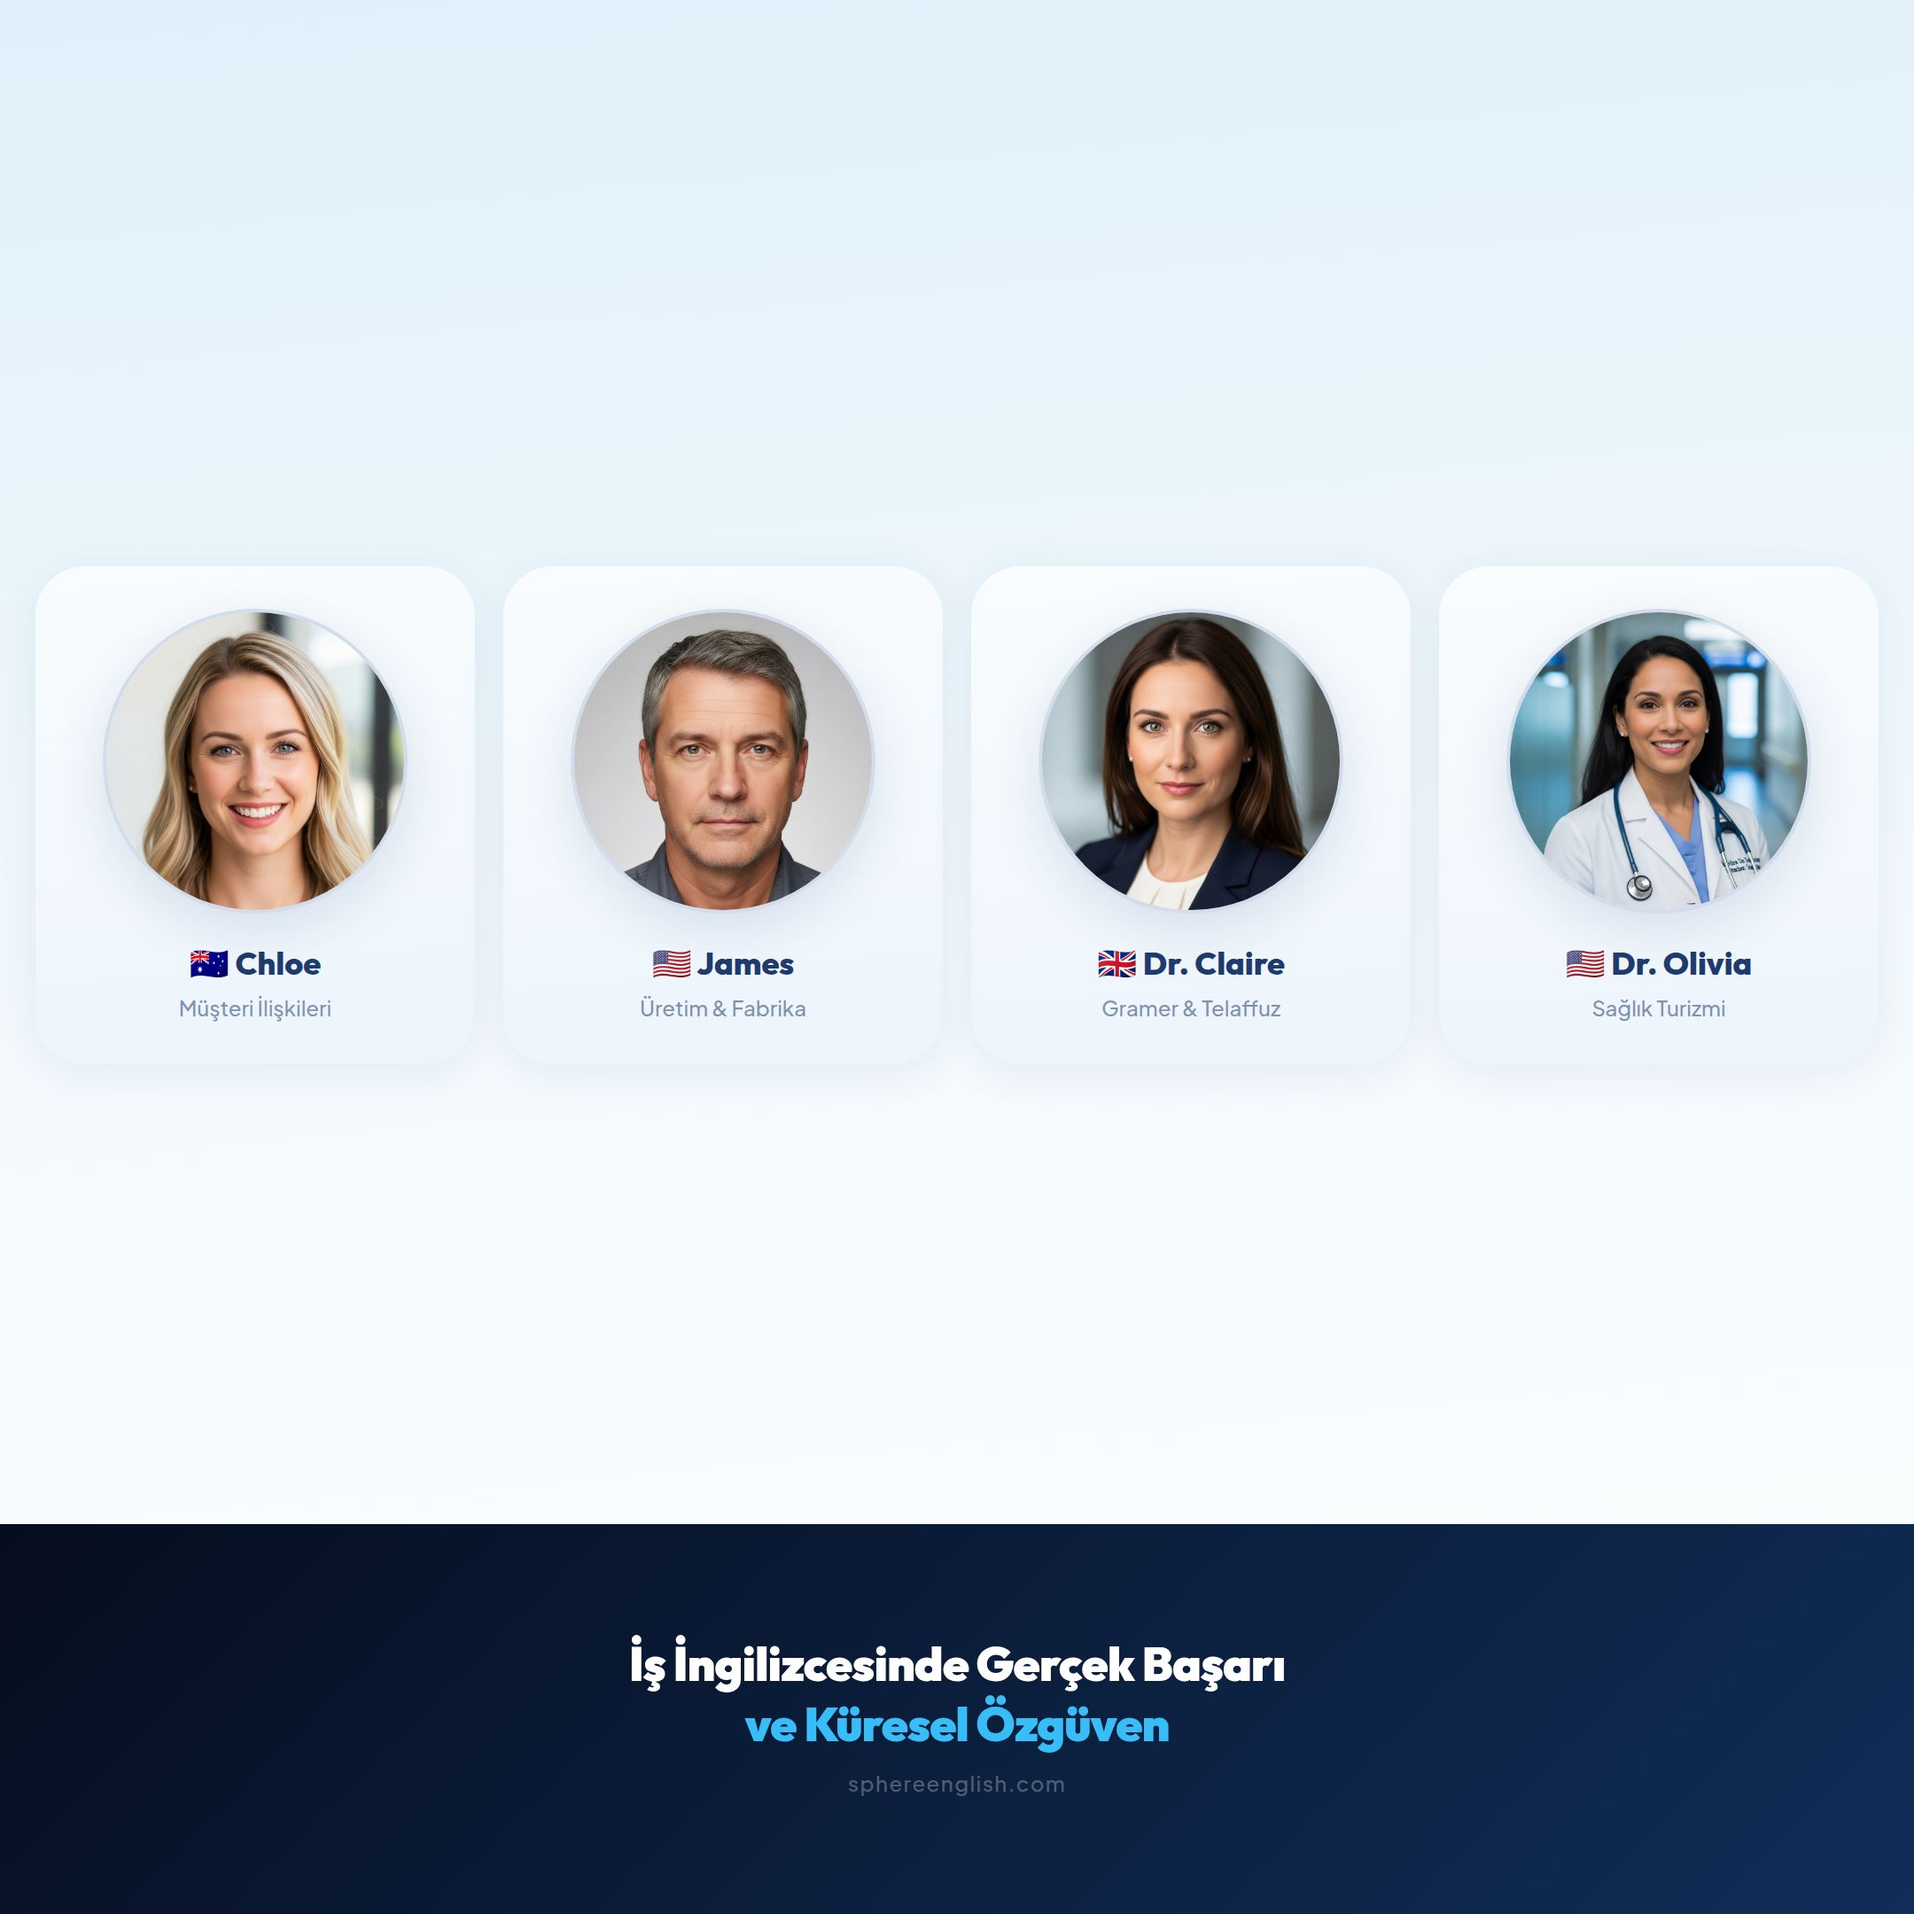
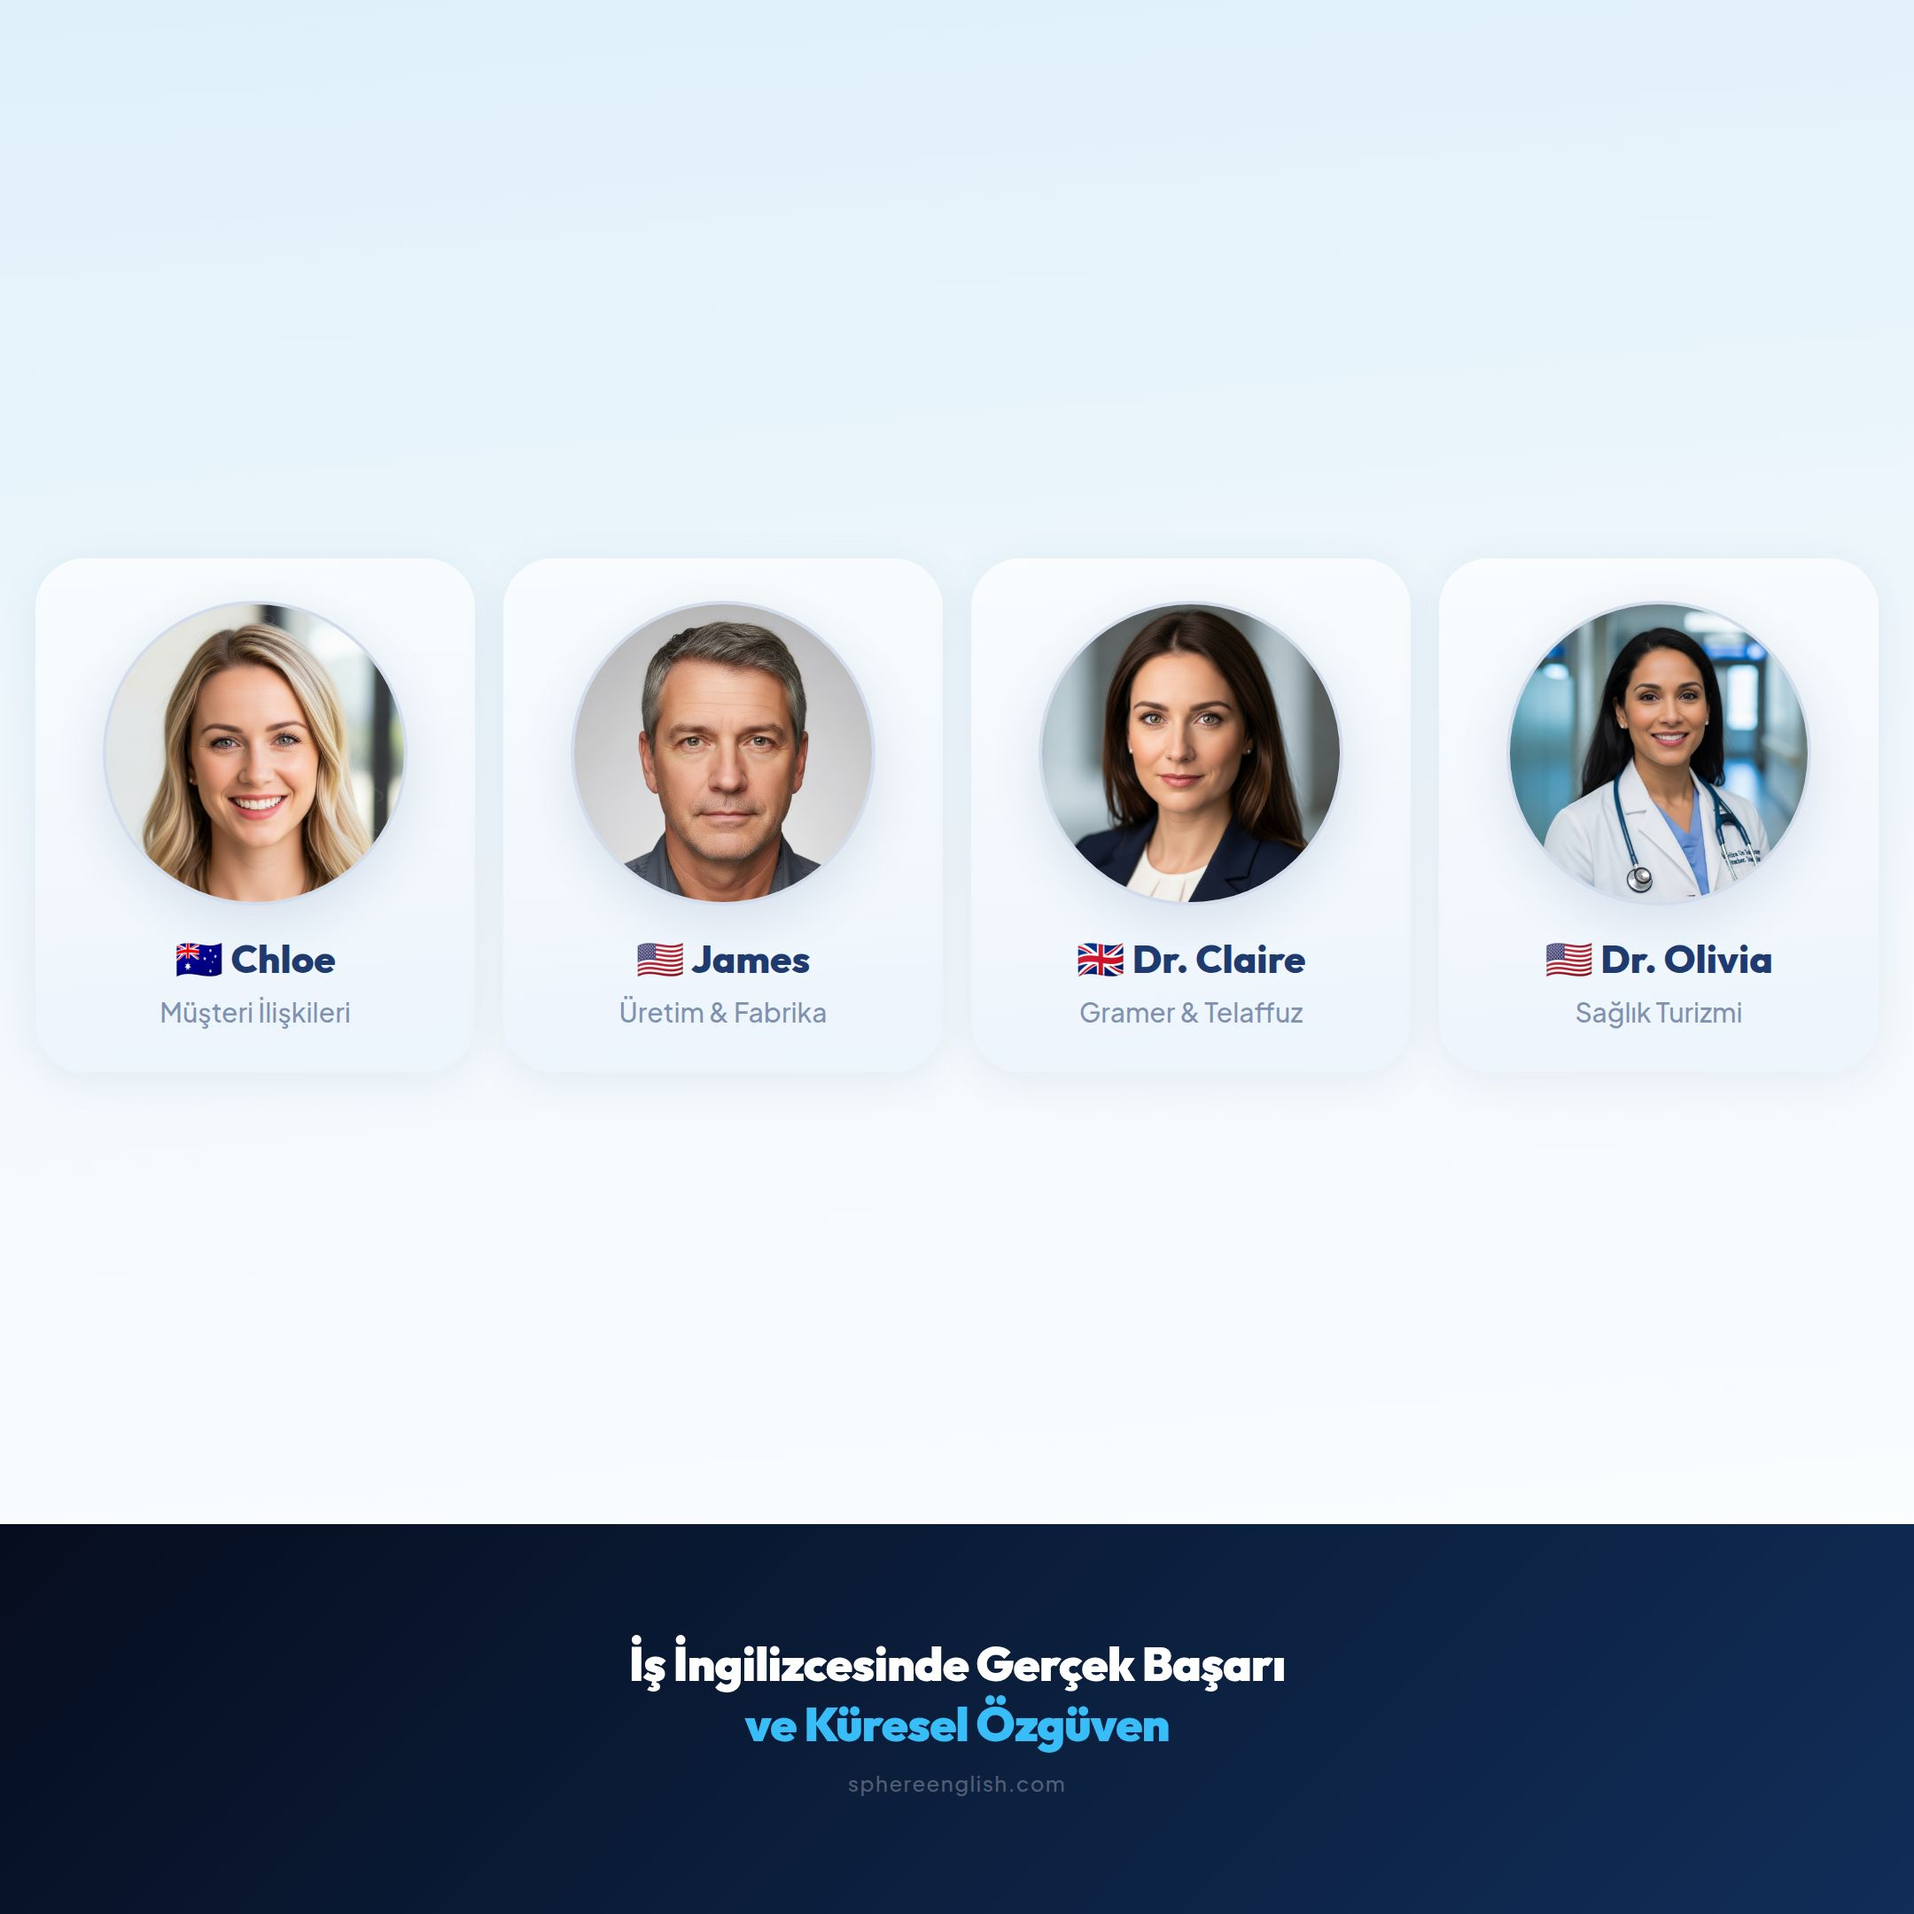
Increase font size for names and titles on coach cards
Update font sizes for names to 22px and specialties to 15px in TeamPost.tsx.

Replit-Commit-Author: Agent
Replit-Commit-Session-Id: 7828208e-226c-43ef-9a3e-875997ce7956
Replit-Commit-Checkpoint-Type: full_checkpoint
Replit-Commit-Event-Id: 11d12403-7256-42c0-be1d-d6c222360012
Replit-Commit-Screenshot-Url: https://storage.googleapis.com/screenshot-production-us-central1/f780e6cf-cd3b-477f-8b05-3e4b163e7069/7828208e-226c-43ef-9a3e-875997ce7956/5ITZdyr
Replit-Helium-Checkpoint-Created: true

diff --git a/artifacts/mockup-sandbox/src/components/mockups/instagram-post/TeamPost.tsx b/artifacts/mockup-sandbox/src/components/mockups/instagram-post/TeamPost.tsx
@@ -113,11 +113,11 @@ const Panel = ({ coaches, msgIdx }: { coaches: Coach[]; msgIdx: number }) => {
               {/* İsim + uzmanlık */}
               <div style={{ textAlign: "center", display: "flex", flexDirection: "column", gap: px(8) }}>
                 <div style={{
-                  fontSize: px(18), fontWeight: 800, color: PRIMARY,
+                  fontSize: px(22), fontWeight: 800, color: PRIMARY,
                   fontFamily: '"Outfit", sans-serif', lineHeight: 1.1,
                 }}>{c.flag} {c.name}</div>
                 <div style={{
-                  fontSize: px(12), fontWeight: 500,
+                  fontSize: px(15), fontWeight: 500,
                   color: "rgba(30,58,110,0.55)",
                   fontFamily: '"Plus Jakarta Sans", sans-serif', lineHeight: 1.3,
                 }}>{c.specialty}</div>
